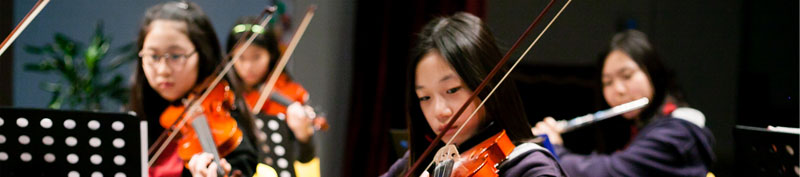
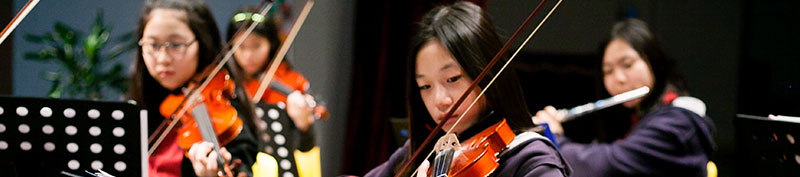
Same header is used for duration of session

diff --git a/theme/decaf/layout/general.php b/theme/decaf/layout/general.php
@@ -103,18 +103,21 @@ if (empty($PAGE->layout_options['noawesomebar'])) { ?>
 <?php if ($hasheading || $hasnavbar) { ?>
 
    <?php
-	   	$headerbgs = array(
+	   	$headerPhotos = array(
 	   		'header-0.jpg',
 	   		'header-1.jpg',
 	   		'header-2.jpg',
 	   		'header-3.jpg',
 	   		'header-4.jpg'
 	   	);
-	   	$headernum = isset($_GET['header']) ? $_GET['header'] : rand(0,4);
-	   	$headerbg = '/theme/decaf/pix/'.$headerbgs[ $headernum ];
+	   	global $SESSION;
+	   	if ( isset($_GET['header']) ) { $headerPhoto = $_GET['header']; }
+	   	else if ( isset($SESSION) && isset($SESSION->headerPhoto) ) { $headerPhoto = $SESSION->headerPhoto; }
+	   	else { $headerPhoto = rand(0,4); }
+	   	$headerBg = '/theme/decaf/pix/'.$headerPhotos[ $headerPhoto ];
    ?>   
 
-    <div id="page-header" style="background-image:url(<?php echo $headerbg; ?>);">
+    <div id="page-header" style="background-image:url(<?php echo $headerBg; ?>);">
     	<div id="page-header-gradient"></div>
 		<div id="page-header-wrapper">
 	        

diff --git a/lib/moodlelib.php b/lib/moodlelib.php
@@ -4354,11 +4354,13 @@ function complete_user_login($user) {
     
     //Check if user is parent
     global $SESSION;
-    
 	require_once($CFG->dirroot .'/cohort/lib.php');
 	$SESSION->userIsParent = cohort_is_member_by_idnumber('parentsALL', $USER->id);
 	$SESSION->userIsTeacher = cohort_is_member_by_idnumber('teachersALL', $USER->id);
 	$SESSION->userIsStudent = cohort_is_member_by_idnumber('studentsALL', $USER->id);
+    
+    //Pick a photo for the header and keep it for the session
+    $SESSION->headerPhoto = rand(0,4);
     
     return $USER;
 }
